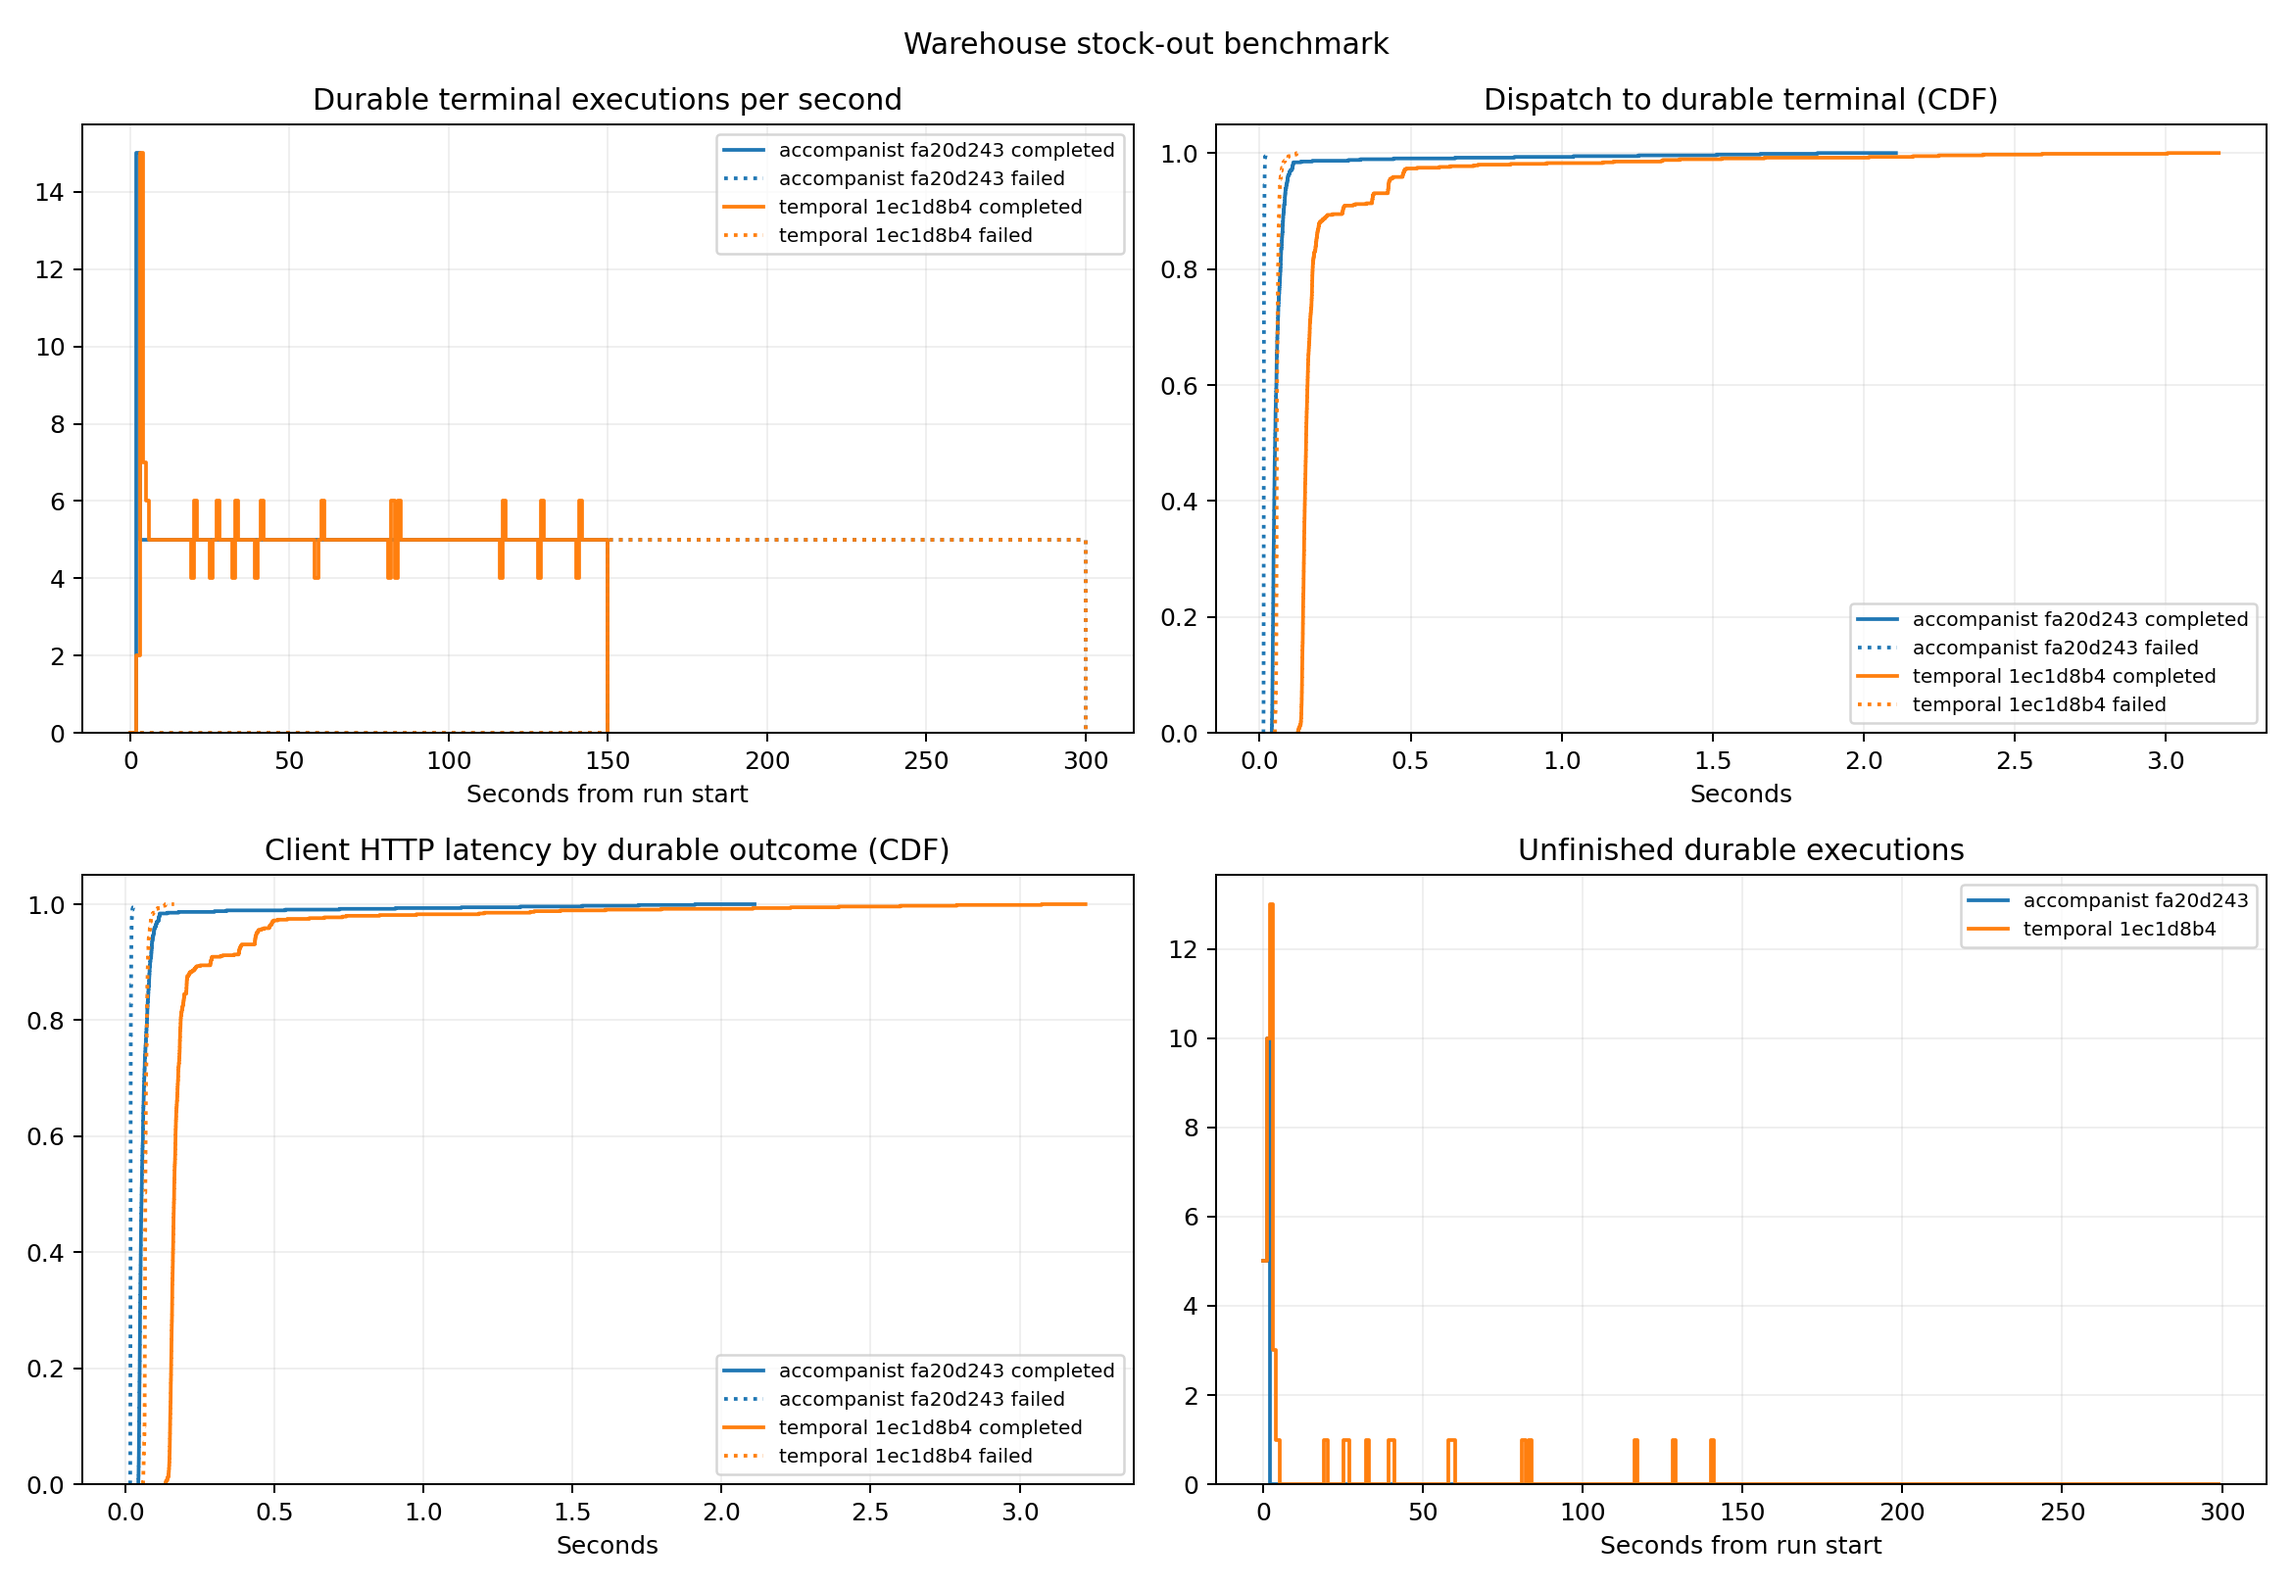
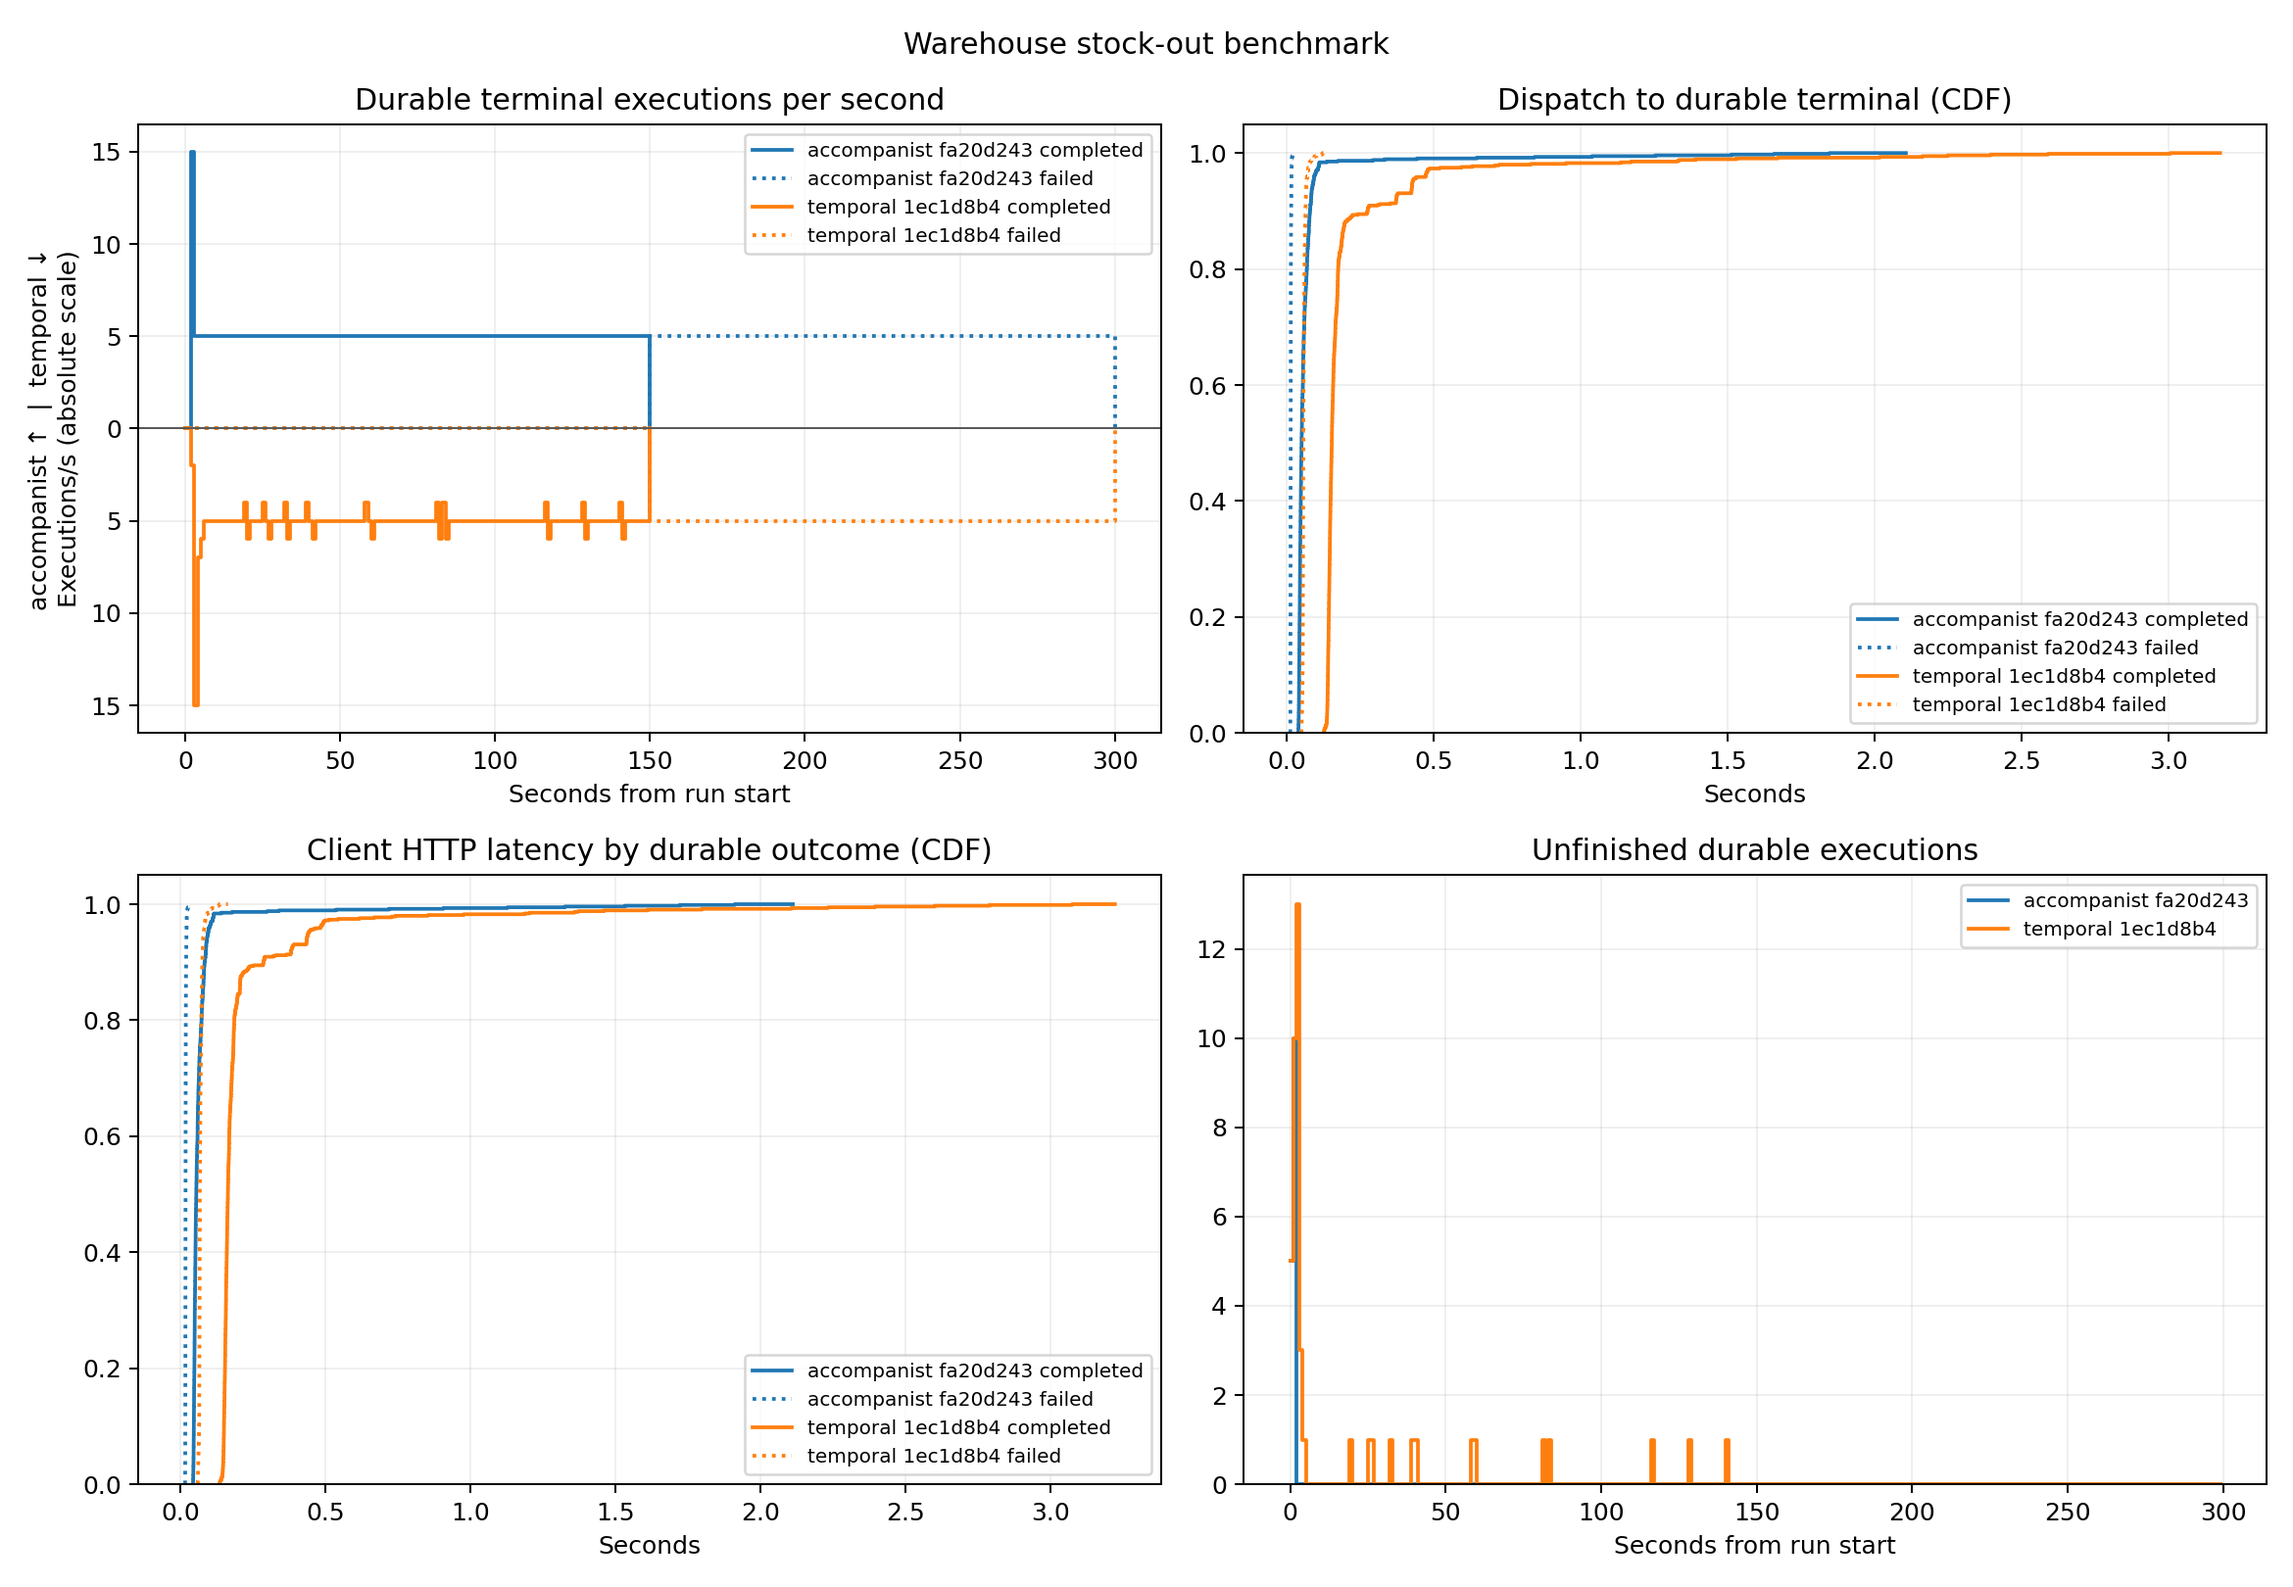
Make compensation plot more readable

diff --git a/examples/warehouse/results/plot_compensation.py b/examples/warehouse/results/plot_compensation.py
@@ -9,6 +9,7 @@ from pathlib import Path
 import matplotlib
 matplotlib.use("Agg")
 import matplotlib.pyplot as plt
+from matplotlib.ticker import FuncFormatter
 
 from export_run_bundle import read_jsonl
 
@@ -27,6 +28,28 @@ def load(bundle):
             json.loads((bundle / "run-manifest.json").read_text()),
             json.loads((bundle / "executions.json").read_text()),
             read_jsonl(bundle / "requests.jsonl"))
+
+
+def recorded_summary(bundle):
+    """Return a stock-out summary only when the collected evidence is complete."""
+    try:
+        config, manifest, executions, _ = load(bundle)
+        stock = json.loads((bundle / "stock-final.json").read_text())
+    except (OSError, ValueError, KeyError):
+        return None
+    if (config.get("benchmark") != "compensation" or
+            not manifest.get("valid") or not manifest.get("complete") or
+            manifest.get("run_id") != config.get("run_id") or
+            manifest.get("system") != config.get("system") or
+            stock.get("product_id") != config.get("product_id") or
+            not isinstance(stock.get("stock_quantity"), int)):
+        return None
+    counts = Counter(row.get("status") for row in executions)
+    successes, failures = counts["completed"], counts["failed"]
+    if (successes != manifest.get("successes") or failures != manifest.get("failures") or
+            successes + failures != config.get("request_count")):
+        return None
+    return config["system"], successes, failures, stock["stock_quantity"]
 
 
 def plot(bundles, output):
@@ -52,7 +75,8 @@ def plot(bundles, output):
             counts = Counter(math.floor(row["terminal_at"] - origin) for row in rows)
             if counts:
                 xs = list(range(min(0, min(counts)), max(counts) + 2))
-                throughput.step(xs, [counts.get(x, 0) for x in xs], where="post", color=color,
+                direction = -1 if len(data) == 2 and index == 1 else 1
+                throughput.step(xs, [direction * counts.get(x, 0) for x in xs], where="post", color=color,
                                 linestyle=style, label=f"{label} {status}")
             latencies = [row["terminal_at"] - dispatch[row["request_id"]] for row in rows
                          if row["request_id"] in dispatch and row["terminal_at"] >= dispatch[row["request_id"]]]
@@ -76,13 +100,20 @@ def plot(bundles, output):
             ys.append(total)
         if xs:
             outstanding.step(xs, ys, where="post", color=color, label=label)
+    if len(data) == 2:
+        throughput.axhline(0, color="0.35", linewidth=.8)
+        throughput.yaxis.set_major_formatter(FuncFormatter(lambda value, _: f"{abs(value):g}"))
+        throughput.set_ylabel(f"{data[0][0]['system']} ↑  |  {data[1][0]['system']} ↓\nExecutions/s (absolute scale)")
+    else:
+        throughput.set_ylabel("Executions/s")
     for ax, title, xlabel in ((throughput, "Durable terminal executions per second", "Seconds from run start"),
                               (durable, "Dispatch to durable terminal (CDF)", "Seconds"),
                               (http, "Client HTTP latency by durable outcome (CDF)", "Seconds"),
                               (outstanding, "Unfinished durable executions", "Seconds from run start")):
         ax.set_title(title)
         ax.set_xlabel(xlabel)
-        ax.set_ylim(bottom=0)
+        if ax is not throughput or len(data) == 1:
+            ax.set_ylim(bottom=0)
         ax.grid(alpha=.2)
         if ax.get_legend_handles_labels()[0]:
             ax.legend(fontsize=8)
@@ -101,5 +132,10 @@ if __name__ == "__main__":
     parser.add_argument("comparison", type=Path, nargs="?")
     parser.add_argument("--output", type=Path)
     args = parser.parse_args()
-    plot([args.bundle] + ([args.comparison] if args.comparison else []),
-         args.output or args.bundle / ("comparison.png" if args.comparison else "compensation.png"))
+    bundles = [args.bundle] + ([args.comparison] if args.comparison else [])
+    plot(bundles, args.output or args.bundle / ("comparison.png" if args.comparison else "compensation.png"))
+    for bundle in bundles:
+        summary = recorded_summary(bundle)
+        if summary is not None:
+            system, successes, failures, final_stock = summary
+            print(f"{system}: succeeded={successes}, failed={failures}, final stock={final_stock}")
